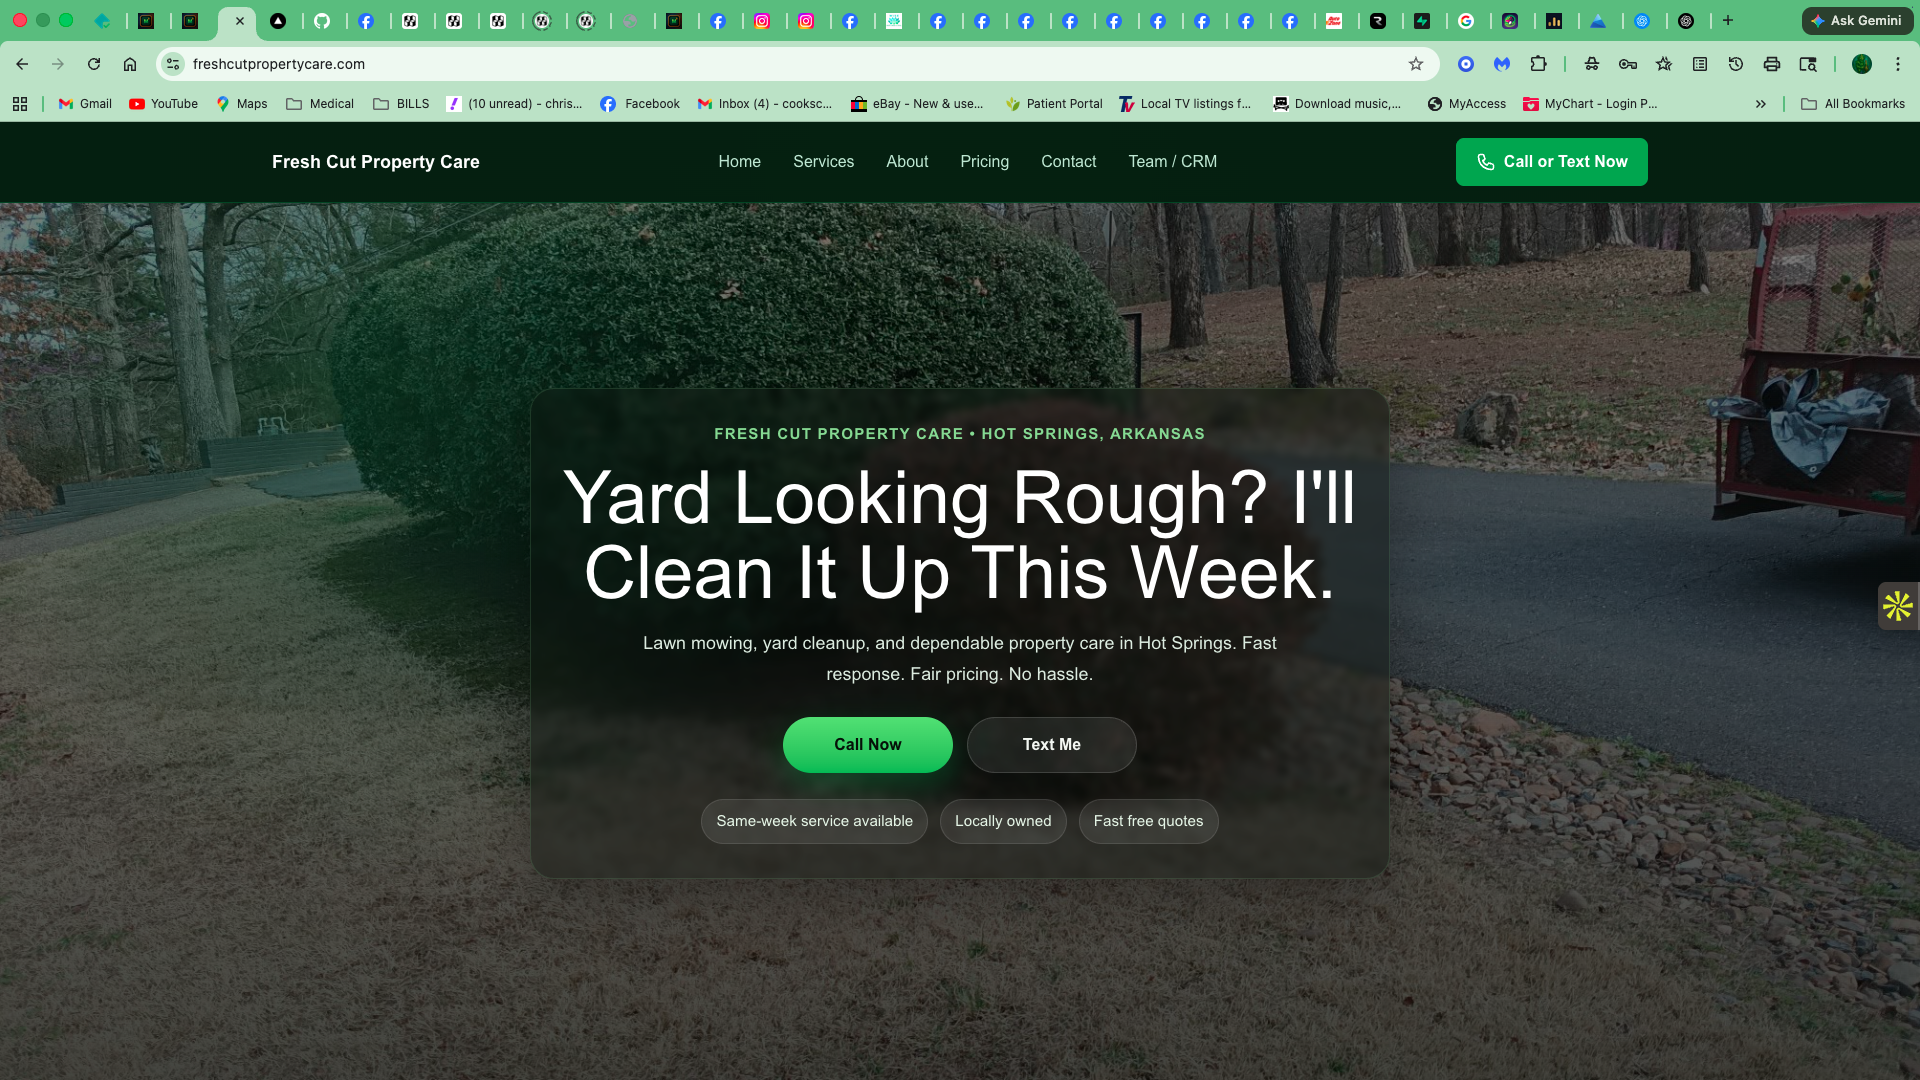
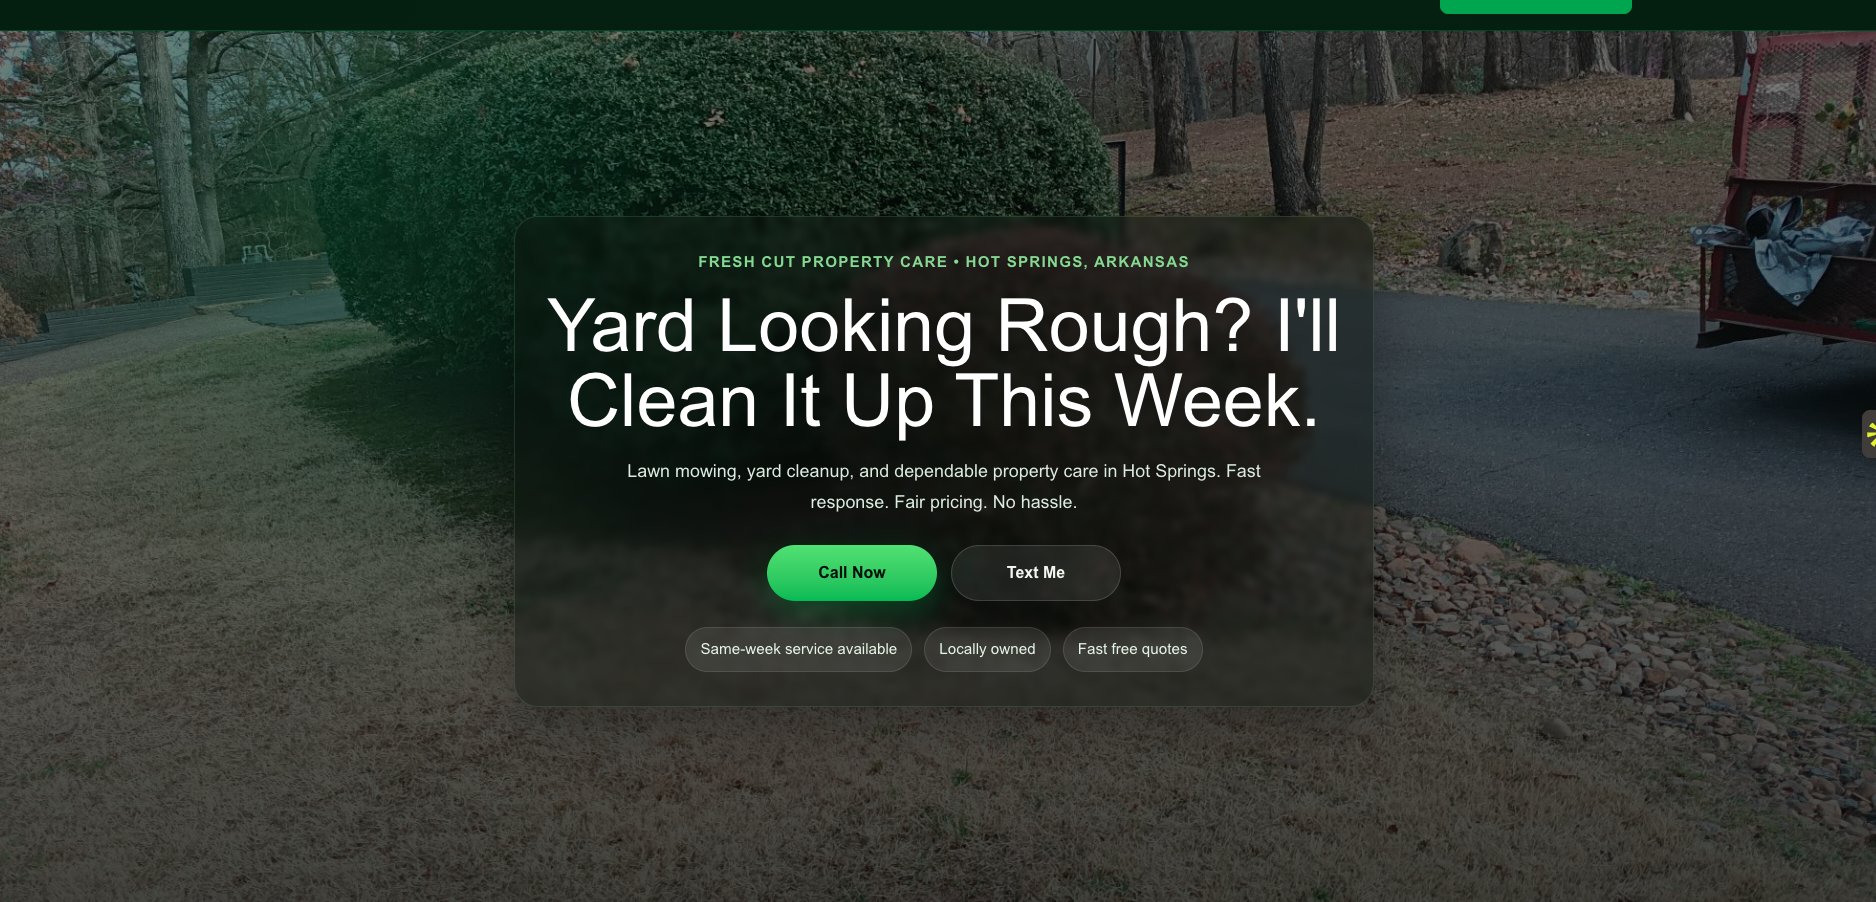
Web design: unify real-site showcase and crop Fresh Cut preview
- Show Deep Well Audio and Fresh Cut together in real-work section
- Remove duplicate Fresh Cut spotlight band from web design page
- Crop Fresh Cut screenshot to drop browser chrome and right-edge UI

Made-with: Cursor

diff --git a/next-app/components/public/WebDesignSalesPage.tsx b/next-app/components/public/WebDesignSalesPage.tsx
@@ -207,53 +207,6 @@ export function WebDesignSalesPage() {
 
       <WebDesignProofStrip />
 
-      <section
-        id="fresh-cut-spotlight"
-        className="home-band home-band--deep border-y border-[rgba(232,253,245,0.06)]"
-        aria-labelledby="fresh-cut-spotlight-heading"
-      >
-        <div className={`${shell} ${sectionY}`}>
-          <p className="home-reveal mx-auto max-w-[40rem] text-center text-[11px] font-semibold uppercase tracking-[0.22em] text-[#e09a5a]/95 md:text-xs">
-            Live client site
-          </p>
-          <h2
-            id="fresh-cut-spotlight-heading"
-            className={`home-reveal home-section-title ${h2} mx-auto mt-5 max-w-[640px] text-center`}
-          >
-            See a real local business site
-          </h2>
-          <div className="home-reveal mx-auto mt-10 max-w-[520px]">
-            <TrackedPublicLink
-              href="https://freshcutpropertycare.com"
-              target="_blank"
-              rel="noopener noreferrer"
-              eventName="public_external_project_click"
-              eventProps={{ location: "web_design", section: "fresh_cut_card" }}
-              className="project-showcase-card"
-            >
-              <div className="project-showcase-image-wrapper">
-                {/* eslint-disable-next-line @next/next/no-img-element */}
-                <img
-                  src="/images/freshcut-new.png"
-                  alt="Fresh Cut Property Care website preview"
-                  className="project-showcase-image"
-                  width={1200}
-                  height={750}
-                />
-              </div>
-              <div className="project-showcase-content">
-                <h3>Fresh Cut Property Care</h3>
-                <p>
-                  A high-conversion website for a local lawn care business focused on fast response, clear services, and
-                  real customer action.
-                </p>
-                <p className="mt-3 text-sm font-semibold text-[#e09a5a]">View live site →</p>
-              </div>
-            </TrackedPublicLink>
-          </div>
-        </div>
-      </section>
-
       <section id="problem" className="home-band home-band--surface border-y border-[rgba(232,253,245,0.08)]">
         <div className={`${shell} ${sectionY}`}>
           <h2 className={`home-reveal home-section-title ${h2} ${read}`}>

diff --git a/next-app/components/public/HomeDeepWellShowcase.tsx b/next-app/components/public/HomeDeepWellShowcase.tsx
@@ -22,6 +22,18 @@ const PROJECTS = [
     objectPosition: "center 8%",
     imageClassName: "object-cover",
   },
+  {
+    title: "Fresh Cut Property Care",
+    primary: "Built to turn local visitors into real calls and booked jobs",
+    supporting: "Clear services, fast load, and a layout that makes contacting you simple",
+    previewSrc: "/images/freshcut-new.png",
+    previewAlt: "Homepage preview of Fresh Cut Property Care — lawn care hero and call-to-action",
+    hostname: "freshcutpropertycare.com",
+    url: "https://freshcutpropertycare.com",
+    analyticsId: "fresh_cut_property_care",
+    objectPosition: "center center",
+    imageClassName: "object-cover",
+  },
 ] as const;
 
 const shell = publicShellClass;
